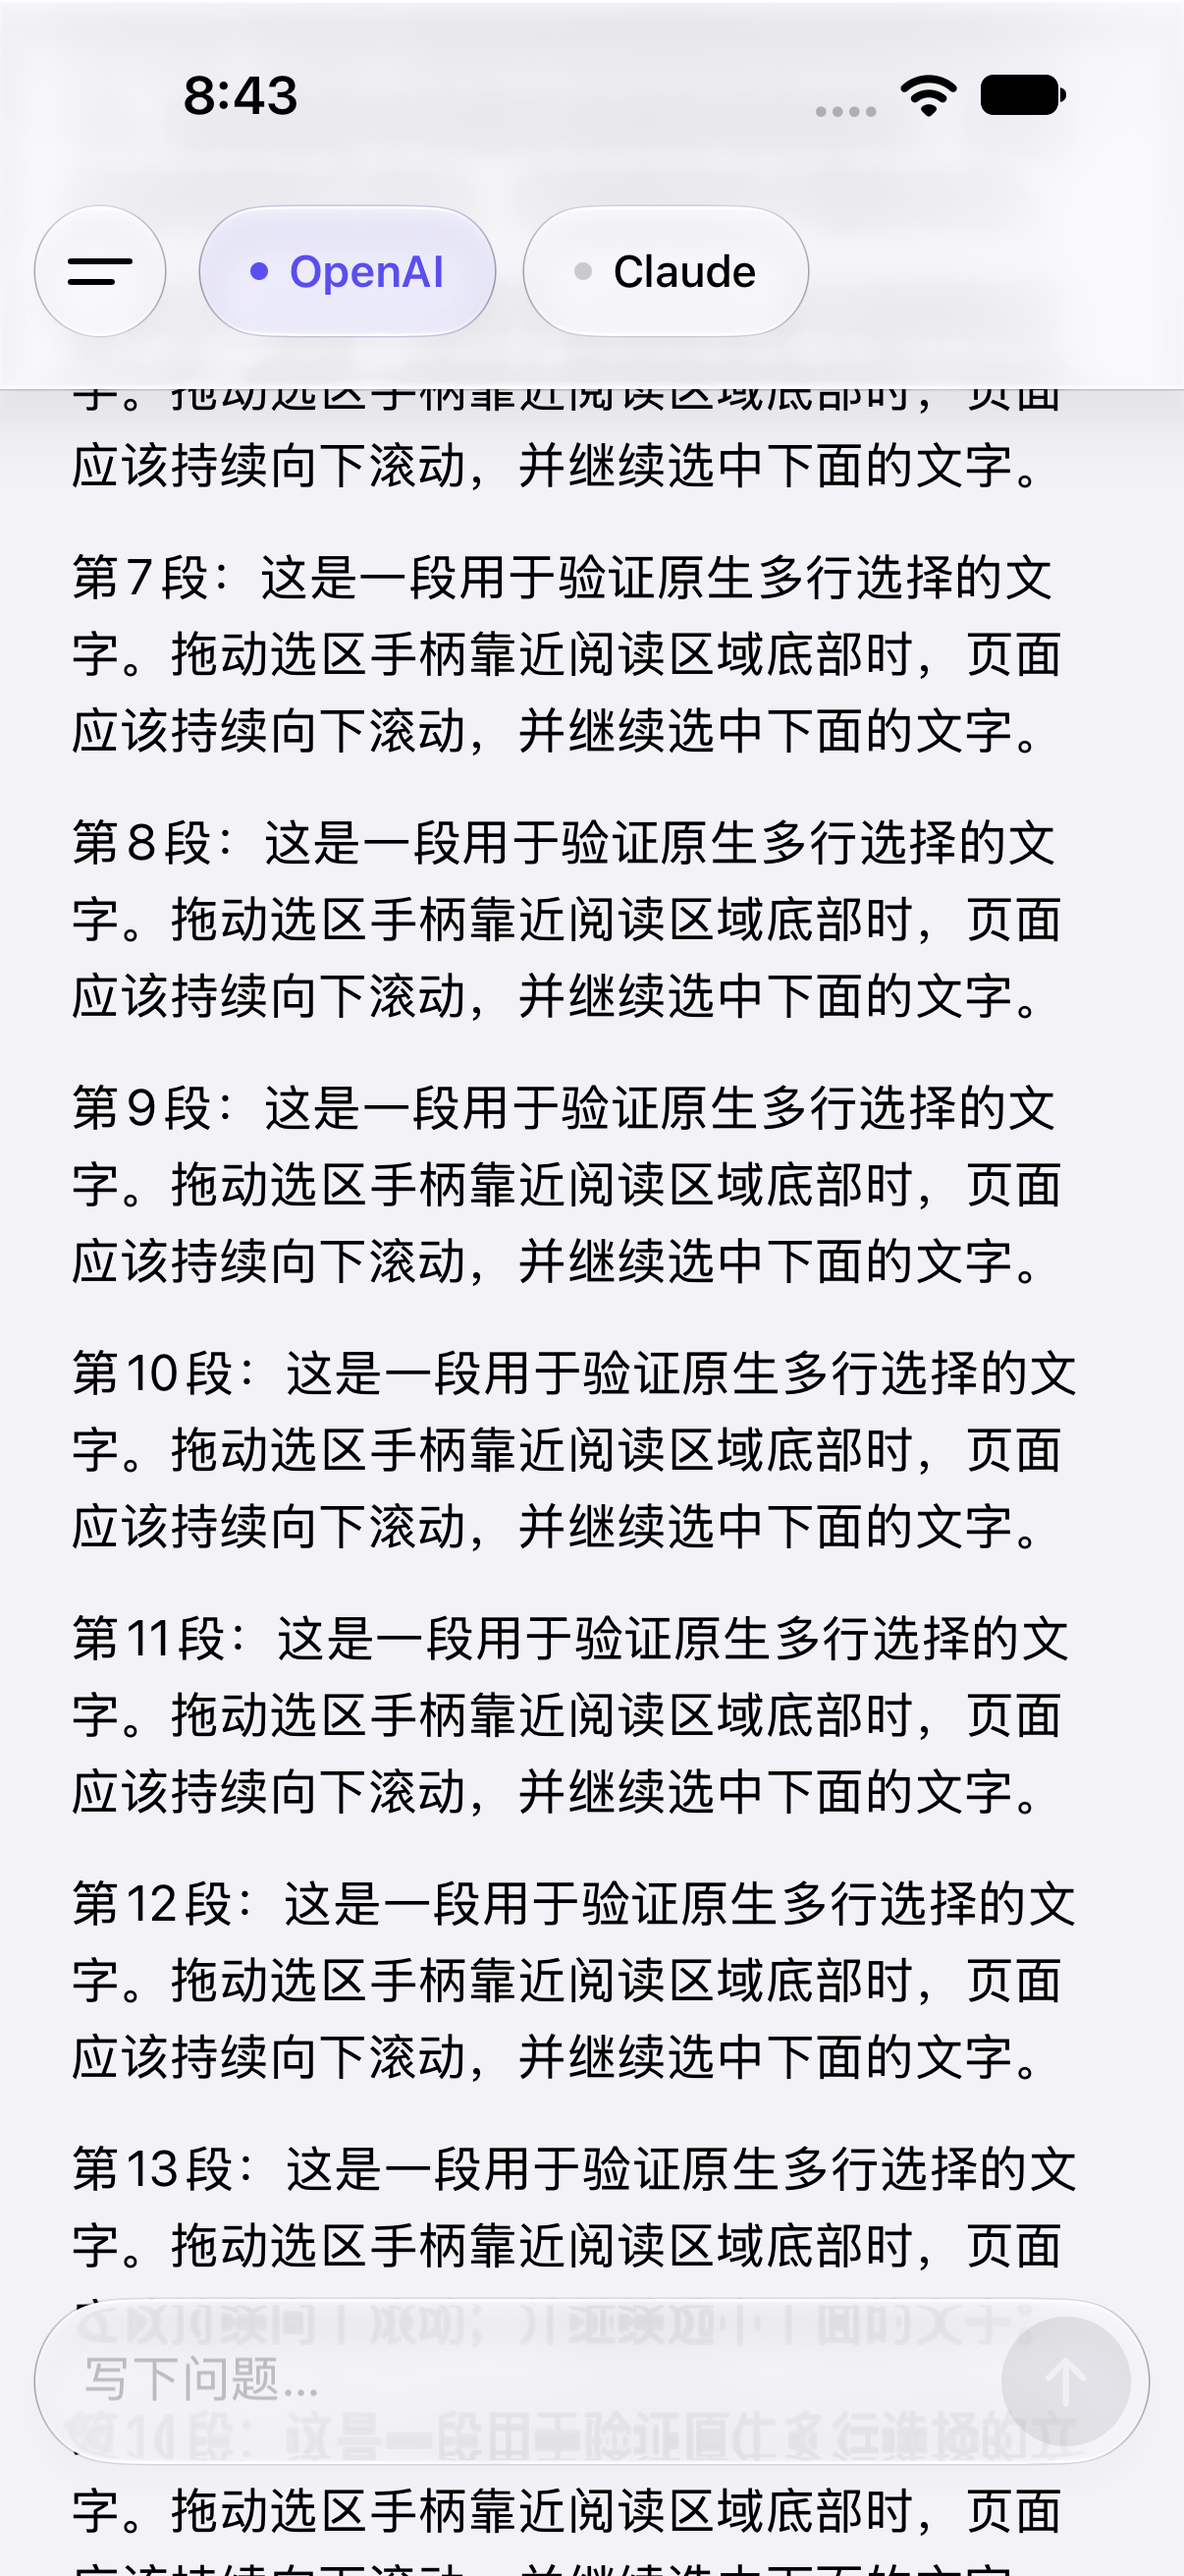
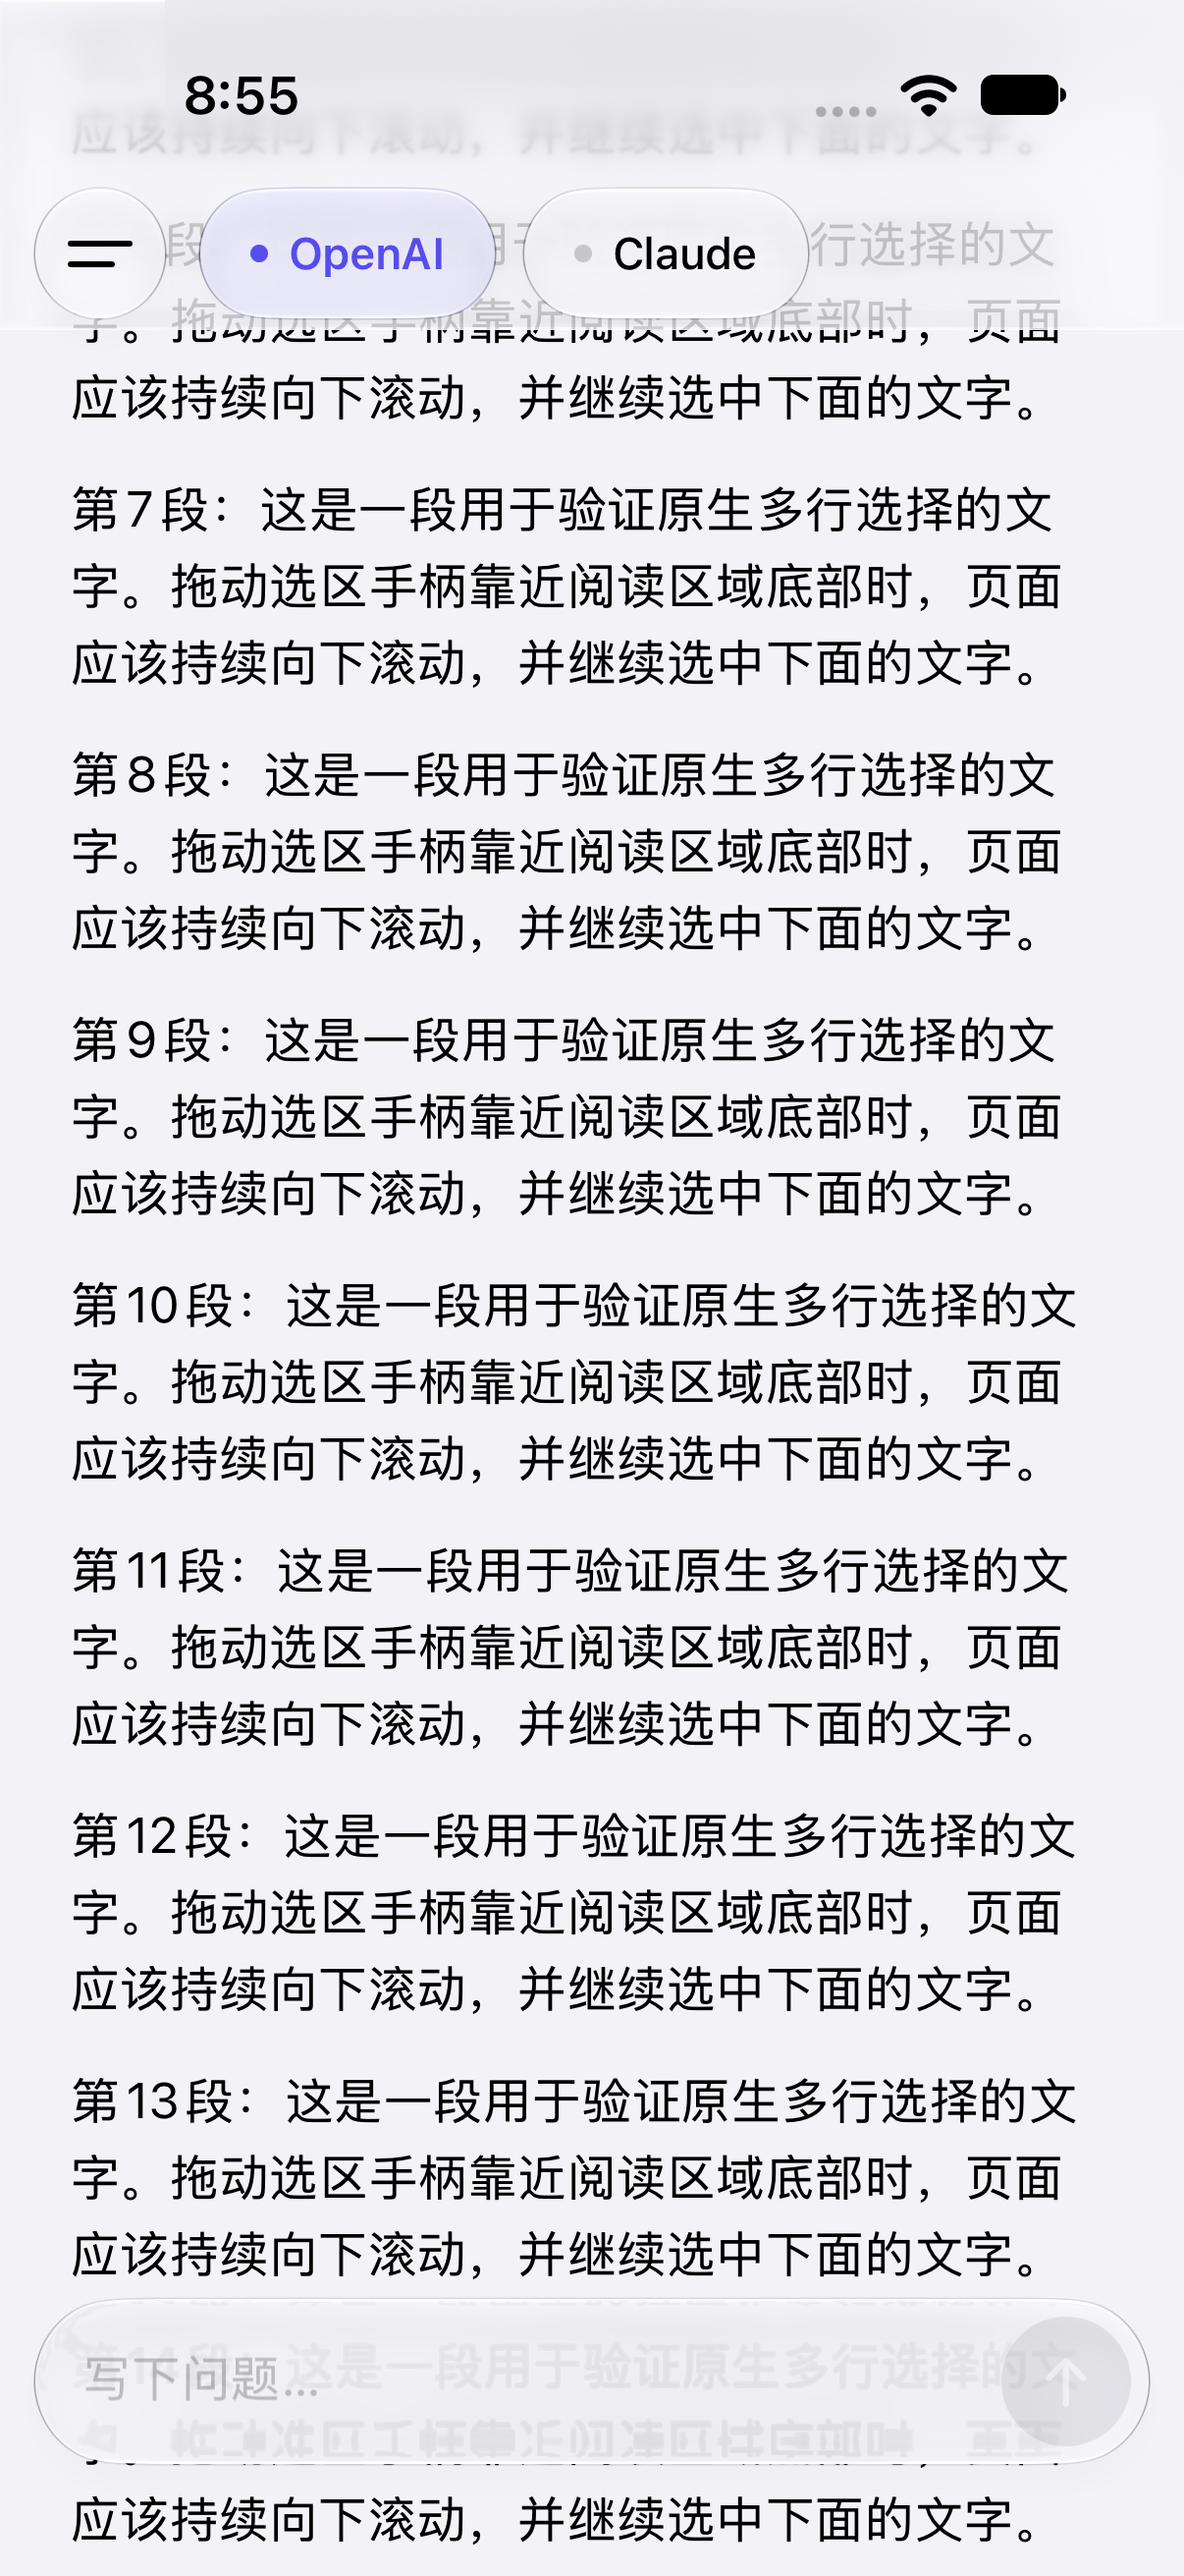
Compact the top glass panel and strengthen quote backgrounds

Changed region(s): [[0.0614, 0.0927, 0.9204, 0.8959], [0.0614, 0.9577, 0.8897, 1.0], [0.1841, 0.0309, 0.2454, 0.0618]]

diff --git a/Loom/Views/WorkspaceView.swift b/Loom/Views/WorkspaceView.swift
@@ -69,8 +69,7 @@ struct WorkspaceView: View {
                         .padding(.leading, 12)
                         modelTabs
                     }
-                    .padding(.vertical, 4)
-                    .padding(.bottom, 10)
+                    .padding(.bottom, 2)
                     .onGeometryChange(for: CGFloat.self) { $0.size.height } action: { topBarHeight = $0 }
                     .background { TopBarGlass(safeAreaHeight: geometry.safeAreaInsets.top) }
                     .allowsHitTesting(!drawerVisible)
@@ -197,7 +196,7 @@ struct WorkspaceView: View {
                             .id(thread.id)
                         }
                     }.padding(.leading, 12).padding(.trailing, 4)
-                }.padding(.vertical, 4)
+                }.padding(.vertical, 2)
             }
             .scrollIndicators(.hidden)
             .onChange(of: store.selectedModel) { _, id in
@@ -311,6 +310,8 @@ private struct TopBarGlass: View {
                 .fill(.clear)
                 .frame(height: geometry.size.height + safeAreaHeight)
                 .glassEffect(.regular, in: .rect(cornerRadius: 0))
+                .opacity(0.82)
+                .clipped()
                 .offset(y: -safeAreaHeight)
         }
         .allowsHitTesting(false)

diff --git a/Loom/Views/ComposerView.swift b/Loom/Views/ComposerView.swift
@@ -16,7 +16,7 @@ struct ComposerView: View {
                                 }
                                 Button { store.removeQuote(quote.id) } label: { Image(systemName: "xmark.circle.fill") }
                                     .foregroundStyle(.secondary).accessibilityLabel("移除引用：\(quote.text)")
-                            }.padding(10).background(.yellow.opacity(0.16), in: .rect(cornerRadius: 14))
+                            }.padding(10).background(.yellow.opacity(0.32), in: .rect(cornerRadius: 14))
                         }
                     }.padding(.horizontal, 4)
                 }.scrollIndicators(.hidden).accessibilityIdentifier("quote-tray")
